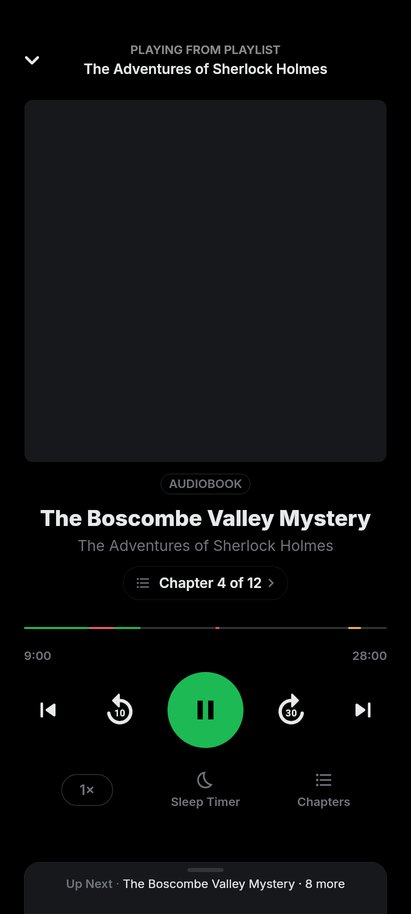
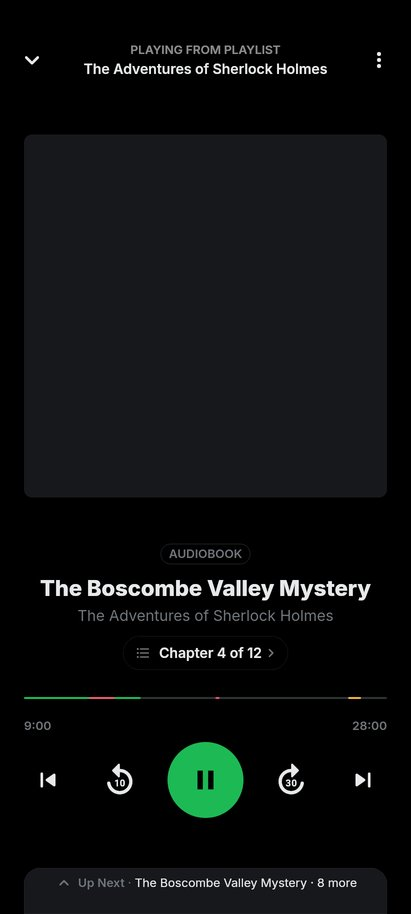
1.7.148: changelog, version, screenshots, SKIPPED entries
Claude-Session: https://claude.ai/code/session_01QqANA2KoyktcKRw8NbVQ7X

diff --git a/lib/utils/app_version.dart b/lib/utils/app_version.dart
@@ -5,7 +5,7 @@ import 'package:package_info_plus/package_info_plus.dart';
 ///
 /// MUST stay in sync with `version:` in pubspec.yaml — `test/app_version_test.dart`
 /// asserts this, so a bumped pubspec with a stale constant fails the suite.
-const String kPubspecAppVersion = '1.7.147';
+const String kPubspecAppVersion = '1.7.148';
 
 /// Splits any version-ish string into exactly three numeric parts.
 ///

diff --git a/docs/redesign/SKIPPED.md b/docs/redesign/SKIPPED.md
@@ -48,6 +48,8 @@ elements (or can't be done on this SDK), and what was done instead.
 | 6 (revised after 1.7.145) | Music player action row under the transport (lyrics, sleep timer, radio, add to playlist, share) | The owner asked for all of them under the ⋮ | row removed from the music player; the ⋮ sheet already had radio, add to playlist and share, and now opens with Show/Hide lyrics and Sleep timer (time left as subtitle while it runs) under its quick actions; the podcast/audiobook and gesture players keep their rows |
 | 6 (revised after 1.7.146) | Similar songs carousel under the player controls | The owner asked for it to move into the swipe-up panel | carousel removed; the queue panel has Up Next / Similar songs chips at the top, Similar songs lists 25 tracks like the one playing |
 | 6 (revised after 1.7.146) | Floating 44 dp Up Next card | The owner asked for it a bit smaller and connected to the bottom | a 36 dp tab (plus the system inset) standing on the bottom edge, rounded on top only, same 24 dp side margins |
+| 6 (revised after 1.7.147) | Podcast/audiobook tool row and gesture-player action row | The owner asked for all player buttons under the ⋮ | long-form tools are rows at the top of the top-bar ⋮ sheet (audiobooks get the ⋮ too); the gesture player gets a ⋮ by the heart opening the song sheet with lyrics and sleep timer |
+| 6 (revised after 1.7.147) | 36 dp Up Next tab with a handle line | The owner asked for it smaller | 30 dp single line: an up-arrow, then "Up Next · next song" |
 | 3 (revised after 1.7.146) | Rail: same items and order; Home header buttons in the same places | The owner asked to remove the compass (Explore) and the magnifying glass (Search) from the top right of Home and to put a compass with discovery on the rail under Home, to search and discover | Discover (compass glyph, filled when active) added to the rail right under Home; width 47, look and the other items' order unchanged. The tab has the rail-tab title row, the §5.8 search pill (a tap opens the Search screen, as the magnifying glass did) and the Explore feed (genre chips and every shelf) below it. Explore and Search removed from the Home header; Stats and "What's playing?" stay. Tabs after Home move up one index (`RailTab`) |
 
 ## Known side effects of Phase 1 (to settle in later phases)

diff --git a/CHANGELOG.md b/CHANGELOG.md
@@ -1,3 +1,17 @@
+# 1.7.148
+
+**Everything under ⋮, in every player**
+* Podcasts and audiobooks: the button row under the controls is gone.
+  Speed, sleep timer, shownotes (chapters for books), transcript, video
+  and autoplay are in the ⋮ at the top right, above bookmarks and segments
+* Audiobooks get that ⋮ too
+* Cover-filling (gesture) player: lyrics, sleep timer and share moved into
+  a ⋮ next to the heart
+
+**Player polish**
+* "Playing from …" at the top stays readable on light covers
+* The Up Next tab at the bottom is one slim line with an up-arrow
+
 # 1.7.147
 
 **Discover in the side rail**
